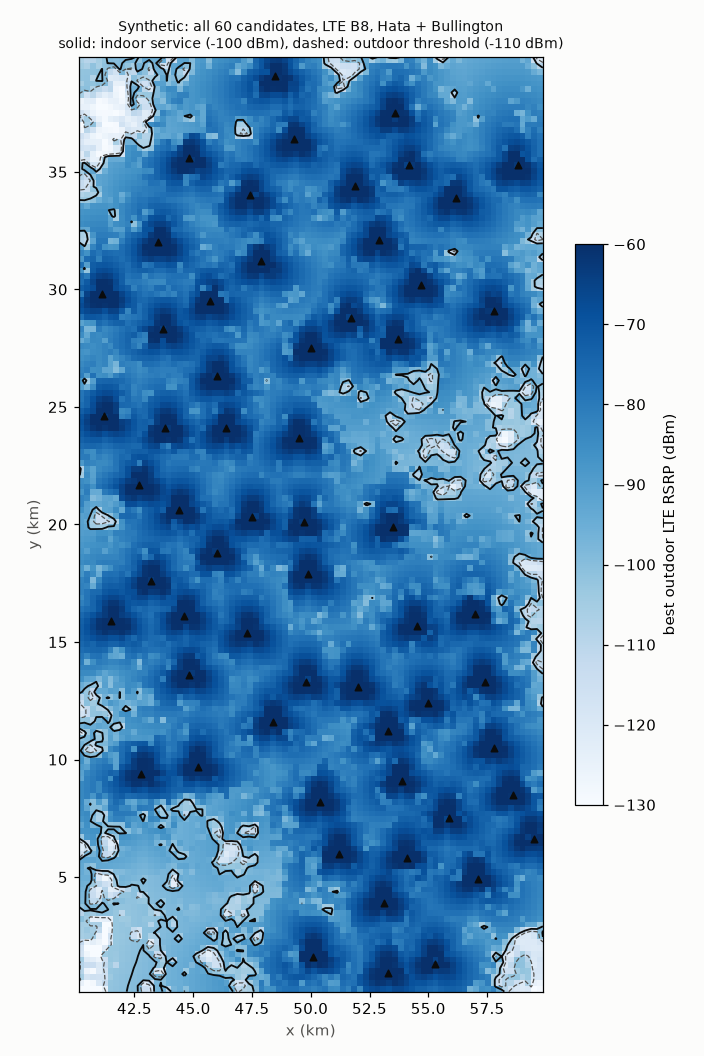
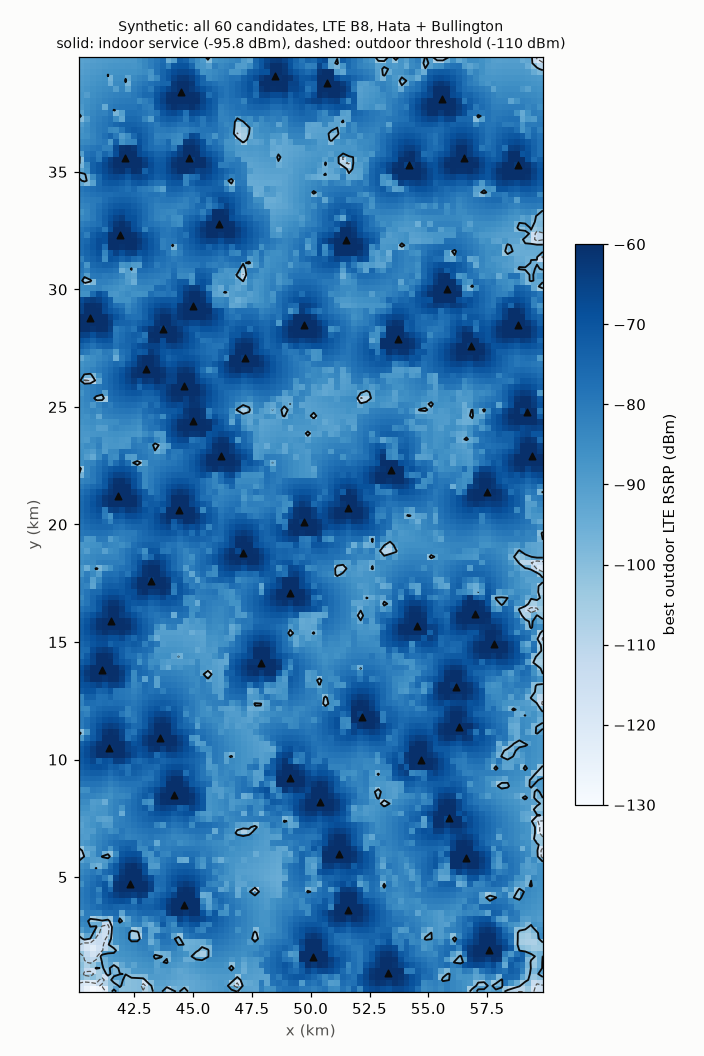
feat: use the p.2109 indoor margin and irregular hilltop candidates

diff --git a/src/ran_lakehouse/planning/geography.py b/src/ran_lakehouse/planning/geography.py
@@ -23,14 +23,15 @@ LINE_SEGMENT_KM = 1.0
 LINE_TURN_SD_DEG = 15.0
 GRID_LINE_KM = 14.0  # power grid reach into the expansion area (START)
 FIBER_ROUTE_KM = 9.0  # fiber reach (START)
-# Candidate sites (START): a node is a local high point when it is the
-# highest within HIGH_POINT_RADIUS_KM; a candidate needs a village within
-# NEAR_VILLAGE_KM, candidates keep MIN_SPACING_KM apart, and they are taken
-# greedily by the persons in villages within SCORE_RADIUS_KM.
+# Candidate sites (START): a hilltop is a node that is the highest within
+# HIGH_POINT_RADIUS_KM. Each village proposes its highest hilltop within
+# NEAR_VILLAGE_KM; proposals keep MIN_SPACING_KM apart (higher first), so
+# candidates cluster where villages do and leave gaps elsewhere. At most
+# CANDIDATES are kept, by the persons in villages within SCORE_RADIUS_KM.
 CANDIDATES = 60
 HIGH_POINT_RADIUS_KM = 0.5
 NEAR_VILLAGE_KM = 3.0
-MIN_SPACING_KM = 2.0
+MIN_SPACING_KM = 1.5
 SCORE_RADIUS_KM = 5.0
 # Build cost, IDR (ASSUMPTION): tower, civil works and radio equipment, plus
 # an access road per km from the nearest village.
@@ -169,7 +170,7 @@ def distance_to_line(x_km: np.ndarray, y_km: np.ndarray, line: np.ndarray) -> np
 
 
 def high_points(terrain: Terrain) -> tuple[np.ndarray, np.ndarray, np.ndarray]:
-    """Nodes that are the highest within HIGH_POINT_RADIUS_KM.
+    """Nodes that are the highest within HIGH_POINT_RADIUS_KM, away from the edges.
 
     Args:
         terrain: The terrain.
@@ -181,7 +182,12 @@ def high_points(terrain: Terrain) -> tuple[np.ndarray, np.ndarray, np.ndarray]:
     h = terrain.heights_m
     padded = np.pad(h, r, mode="edge")
     window_max = sliding_window_view(padded, (2 * r + 1, 2 * r + 1)).max(axis=(2, 3))
-    rows, cols = np.nonzero(h >= window_max)
+    top = h >= window_max
+    # A node within the radius of the area's edge is left out: the terrain
+    # is cut there, so a slope running out of the area would look like a top.
+    top[:r, :] = top[-r:, :] = False
+    top[:, :r] = top[:, -r:] = False
+    rows, cols = np.nonzero(top)
     return (
         terrain.x0_km + cols * terrain.step_km,
         terrain.y0_km + rows * terrain.step_km,
@@ -189,15 +195,31 @@ def high_points(terrain: Terrain) -> tuple[np.ndarray, np.ndarray, np.ndarray]:
     )
 
 
-def candidates(terrain: Terrain, village_list: list[Village]) -> list[Candidate]:
-    """Candidate sites on local high points near villages.
+def qualifying(terrain: Terrain, village_list: list[Village]) -> int:
+    """How many hilltops qualify before the CANDIDATES cap.
 
     Args:
         terrain: The terrain.
         village_list: The villages.
 
     Returns:
-        Up to CANDIDATES sites, the best-scored first.
+        The count.
+    """
+    return len(proposals(terrain, village_list)[0])
+
+
+def proposals(
+    terrain: Terrain, village_list: list[Village]
+) -> tuple[list[int], dict[str, np.ndarray]]:
+    """The villages' hilltops, kept MIN_SPACING_KM apart.
+
+    Args:
+        terrain: The terrain.
+        village_list: The villages.
+
+    Returns:
+        (indices of the qualifying hilltops, arrays x, y, h, nearest village
+        distance and persons score of every hilltop).
     """
     x, y, h = high_points(terrain)
     vx = np.array([v.x_km for v in village_list])
@@ -206,13 +228,31 @@ def candidates(terrain: Terrain, village_list: list[Village]) -> list[Candidate]
     d = np.hypot(x[:, None] - vx[None, :], y[:, None] - vy[None, :])
     nearest = d.min(axis=1)
     score = (vp[None, :] * (d <= SCORE_RADIUS_KM)).sum(axis=1)
-    order = [i for i in np.argsort(-score, kind="stable") if nearest[i] <= NEAR_VILLAGE_KM]
-    chosen: list[int] = []
-    for i in order:
-        if all(np.hypot(x[i] - x[j], y[i] - y[j]) >= MIN_SPACING_KM for j in chosen):
-            chosen.append(int(i))
-        if len(chosen) == CANDIDATES:
-            break
+    proposed = set()
+    for village in range(len(village_list)):
+        near = np.flatnonzero(d[:, village] <= NEAR_VILLAGE_KM)
+        if near.size:
+            proposed.add(int(near[np.argmax(h[near])]))
+    spaced: list[int] = []
+    for i in sorted(proposed, key=lambda k: (-h[k], k)):
+        if all(np.hypot(x[i] - x[j], y[i] - y[j]) >= MIN_SPACING_KM for j in spaced):
+            spaced.append(i)
+    return spaced, {"x": x, "y": y, "h": h, "nearest": nearest, "score": score}
+
+
+def candidates(terrain: Terrain, village_list: list[Village]) -> list[Candidate]:
+    """Candidate sites: the villages' nearby hilltops, irregular like real ones.
+
+    Args:
+        terrain: The terrain.
+        village_list: The villages.
+
+    Returns:
+        Up to CANDIDATES sites, the best-scored first.
+    """
+    spaced, a = proposals(terrain, village_list)
+    x, y, h, nearest, score = a["x"], a["y"], a["h"], a["nearest"], a["score"]
+    chosen = sorted(spaced, key=lambda k: (-score[k], k))[:CANDIDATES]
     return [
         Candidate(
             site_id=f"C{k + 1:02d}",

diff --git a/src/ran_lakehouse/planning/report.py b/src/ran_lakehouse/planning/report.py
@@ -83,7 +83,7 @@ def parameters() -> dict[str, Any]:
         "GSM 900 BCCH power dBm (rule M)": radio.GSM_POWER_DBM,
         "LTE RSRP threshold dBm (START)": radio.LTE_RSRP_THRESHOLD_DBM,
         "GSM RxLev threshold dBm (START)": radio.GSM_RXLEV_THRESHOLD_DBM,
-        "indoor margin dB (START, ASSUMPTION)": radio.INDOOR_MARGIN_DB,
+        "indoor margin dB (ITU-R P.2109-2, traditional buildings)": radio.INDOOR_MARGIN_DB,
         "microwave GHz (START)": radio.MICROWAVE_GHZ,
         "Fresnel clearance used (START)": radio.FRESNEL_CLEARANCE,
         "hub zone km, hub antenna m, max hop km (START)": [
@@ -104,6 +104,24 @@ def parameters() -> dict[str, Any]:
             "solar and battery": backhaul.SOLAR_IDR,
         },
     }
+
+
+def greedy_cover(served: np.ndarray) -> int:
+    """Candidates a greedy cover needs to serve every village some candidate serves.
+
+    Args:
+        served: Mask (candidates, villages).
+
+    Returns:
+        Candidates picked (an upper bound on the minimum cover).
+    """
+    left = served.any(axis=0)
+    picked = 0
+    while left.any():
+        best = int(np.argmax((served & left[None, :]).sum(axis=1)))
+        left &= ~served[best]
+        picked += 1
+    return picked
 
 
 def counts(plan: Plan, data: dict[str, Any]) -> dict[str, Any]:
@@ -147,6 +165,7 @@ def counts(plan: Plan, data: dict[str, Any]) -> dict[str, Any]:
             "persons without indoor GSM": int(population[~indoor_gsm].sum()),
         },
         "candidates": len(sites),
+        "candidates_qualifying": geography.qualifying(plan.terrain, plan.villages),
         "candidate_elevation_m": spread(np.array([s["elevation_m"] for s in sites])),
         "build_cost_idr": spread(np.array([s["build_cost_idr"] for s in sites])),
         "villages_served_by_some_candidate": {
@@ -154,6 +173,10 @@ def counts(plan: Plan, data: dict[str, Any]) -> dict[str, Any]:
             "GSM indoor": int(site_gsm.any(axis=0).sum()),
         },
         "villages_per_candidate_lte_indoor": spread(site_lte.sum(axis=1)),
+        "greedy_cover_candidates": {
+            "LTE indoor": greedy_cover(site_lte),
+            "GSM indoor": greedy_cover(site_gsm),
+        },
         "backhaul": {
             "fiber spur km": spread(np.array([o["distance_km"] for o in option("fiber")])),
             "microwave clear at 0.6 F1 (used)": len(microwave),
@@ -441,7 +464,8 @@ def build(warehouse: str) -> dict[str, Any]:
             "fresnel": radio.FRESNEL_SOURCE,
             "clearance": radio.CLEARANCE_SOURCE,
             "thresholds": radio.THRESHOLD_CONTEXT,
-            "indoor margin context, ITU-R P.2109-2 median at 0.9 GHz (dB)": radio.P2109_MEDIAN_DB,
+            "indoor margin": radio.INDOOR_MARGIN_SOURCE,
+            "ITU-R P.2109-2 median at 0.9 GHz (dB)": radio.P2109_MEDIAN_DB,
         },
         "parameters": parameters(),
         "counts": counts(plan, data),
@@ -500,8 +524,10 @@ def render_markdown(record: dict[str, Any]) -> str:
         "weak outdoor coverage from the served edge. The served cells' levels at each village",
         "use the model's Hata plus the same Bullington diffraction over the terrain as the",
         "candidates. Service coverage is indoor: the outdoor level must clear the threshold by",
-        f"the indoor margin ({record['parameters']['indoor margin dB (START, ASSUMPTION)']:g} dB,"
-        " START).",
+        "the indoor margin ("
+        f"{record['parameters']['indoor margin dB (ITU-R P.2109-2, traditional buildings)']:g}"
+        " dB, the ITU-R P.2109-2 median for traditional buildings; village housing is",
+        "modelled as that class, ASSUMPTION).",
         "",
         "| Villages | Count |",
         "|---|---|",
@@ -510,7 +536,14 @@ def render_markdown(record: dict[str, Any]) -> str:
         "",
         "## Candidates and coverage (rules G4, G5)",
         "",
-        f"{c['candidates']} candidates on local high points near villages; elevation "
+        f"{c['candidates_qualifying']} hilltops qualify and {c['candidates']} are kept (cap "
+        f"{record['parameters']['candidate sites (START)']}, by persons nearby): each village's"
+        " highest hilltop within "
+        f"{record['parameters']['candidate near a village within km (START)']:g} km, kept "
+        f"{record['parameters']['candidate spacing km (START)']:g} km apart, so they cluster",
+        "where villages do. A greedy cover serves every village some candidate serves with "
+        f"{c['greedy_cover_candidates']['LTE indoor']} candidates (LTE indoor) or "
+        f"{c['greedy_cover_candidates']['GSM indoor']} (GSM indoor); elevation "
         f"{c['candidate_elevation_m'][0]:g} to {c['candidate_elevation_m'][2]:g} m; build cost "
         f"{c['build_cost_idr'][0]:,.0f} to {c['build_cost_idr'][2]:,.0f} IDR (ASSUMPTION).",
         "",

diff --git a/src/ran_lakehouse/planning/radio.py b/src/ran_lakehouse/planning/radio.py
@@ -51,13 +51,17 @@ MICROWAVE_GHZ = 8.0
 FRESNEL_CLEARANCE = 0.6  # used for the options (START, CLEARANCE_SOURCE)
 FULL_CLEARANCE = 1.0  # P.530-19 clause 2.2.2.1 step 1, reported beside it
 # Service coverage is indoor: the outdoor level must clear the threshold by
-# this building entry margin (START, ASSUMPTION). For context, ITU-R
-# P.2109-2 (08/2023) Annex 1 clause 3, eqs (1) to (10) and Table 1, give a
-# median building entry loss at 0.9 GHz and horizontal incidence of about
-# 14.2 dB for traditional and 31.2 dB for thermally-efficient buildings
-# (P2109_MEDIAN_DB, computed from the Recommendation).
-INDOOR_MARGIN_DB = 10.0
+# the median building entry loss of ITU-R P.2109-2 (08/2023) Annex 1
+# clause 3 (eqs (1) to (10), Table 1) at 0.9 GHz and horizontal incidence,
+# P = 50%: about 14.2 dB for traditional and 31.2 dB for thermally-efficient
+# buildings (computed from the Recommendation; they match its Fig. 1).
+# Village housing is modelled as the traditional class (ASSUMPTION).
 P2109_MEDIAN_DB = {"traditional": 14.2, "thermally-efficient": 31.2}
+INDOOR_MARGIN_DB = P2109_MEDIAN_DB["traditional"]
+INDOOR_MARGIN_SOURCE = (
+    "ITU-R P.2109-2 (08/2023) Annex 1 clause 3, median building entry loss at 0.9 GHz, "
+    "horizontal incidence, traditional buildings (village housing, ASSUMPTION)"
+)
 THRESHOLD_CONTEXT = (
     "3GPP sets no planning threshold: TS 36.133 V19.5.0 clause 9.1.4 gives the RSRP reporting "
     "range (-156 to -44 dBm); TS 45.005 V19.0.0 clause 6.2 the GSM 900 reference sensitivity "

diff --git a/tests/test_planning.py b/tests/test_planning.py
@@ -50,7 +50,7 @@ def test_candidates_sit_on_high_points_near_villages(demo_world: World) -> None:
     terrain = build_terrain(demo_world.profile)
     villages = geography.villages(demo_world, terrain)
     sites = geography.candidates(terrain, villages)
-    assert len(villages) == 150 and len(sites) == geography.CANDIDATES
+    assert len(villages) == 150 and 0 < len(sites) <= geography.CANDIDATES
     hx, hy, _ = geography.high_points(terrain)
     high = set(zip(np.round(hx, 3), np.round(hy, 3), strict=True))
     for s in sites:

diff --git a/results/planning.md b/results/planning.md
@@ -12,49 +12,51 @@ The expansion area has little or no usable indoor service today; some villages s
 weak outdoor coverage from the served edge. The served cells' levels at each village
 use the model's Hata plus the same Bullington diffraction over the terrain as the
 candidates. Service coverage is indoor: the outdoor level must clear the threshold by
-the indoor margin (10 dB, START).
+the indoor margin (14.2 dB, the ITU-R P.2109-2 median for traditional buildings; village housing is
+modelled as that class, ASSUMPTION).
 
 | Villages | Count |
 |---|---|
 | all | 150 (176,284 persons, 143 schools) |
 | outdoor LTE (RSRP at threshold) | 23 |
 | outdoor GSM (RxLev at threshold) | 60 |
-| indoor LTE (covered_today_lte) | 8 |
-| indoor GSM (covered_today_gsm) | 42 |
-| persons without indoor LTE | 169,505 |
-| persons without indoor GSM | 125,740 |
+| indoor LTE (covered_today_lte) | 1 |
+| indoor GSM (covered_today_gsm) | 31 |
+| persons without indoor LTE | 175,424 |
+| persons without indoor GSM | 145,462 |
 
 ## Candidates and coverage (rules G4, G5)
 
-60 candidates on local high points near villages; elevation 335.4 to 576.9 m; build cost 1,809,046,186 to 2,112,228,296 IDR (ASSUMPTION).
+61 hilltops qualify and 60 are kept (cap 60, by persons nearby): each village's highest hilltop within 3 km, kept 1.5 km apart, so they cluster
+where villages do. A greedy cover serves every village some candidate serves with 31 candidates (LTE indoor) or 16 (GSM indoor); elevation 314.4 to 577.7 m; build cost 1,809,046,186 to 2,112,228,296 IDR (ASSUMPTION).
 
 ![Coverage](planning_coverage.png)
 
 | Coverage from candidates | Value |
 |---|---|
-| villages with indoor LTE from some candidate | 143 |
-| villages with indoor GSM from some candidate | 146 |
-| villages per candidate, indoor LTE (min / median / max) | 3 / 9 / 17 |
-| area share with indoor LTE from all candidates | 90.9% |
-| area share with outdoor LTE from all candidates | 96.3% |
+| villages with indoor LTE from some candidate | 146 |
+| villages with indoor GSM from some candidate | 150 |
+| villages per candidate, indoor LTE (min / median / max) | 2 / 7 / 13 |
+| area share with indoor LTE from all candidates | 96.6% |
+| area share with outdoor LTE from all candidates | 99.5% |
 
 ## Backhaul and power (rule G6)
 
 ![Line of sight](planning_los.png)
 
-The figure: the longest clear hop, C26 to SITE0277, 22.2 km.
+The figure: the longest clear hop, C21 to SITE0280, 21.4 km.
 The gold table uses the 0.6 F1 clearance; the 1.0 F1 count is beside it.
 
 | Option (spreads are min / median / max) | Value |
 |---|---|
-| fiber spur km | 0.08 / 9.97 / 22.59 |
-| microwave clear at 0.6 F1 (used) | 52 |
-| microwave clear at 1.0 F1 (P.530-19 2.2.2.1) | 50 |
-| microwave hop km | 2.95 / 12.15 / 22.2 |
+| fiber spur km | 0.08 / 10.72 / 23.62 |
+| microwave clear at 0.6 F1 (used) | 56 |
+| microwave clear at 1.0 F1 (P.530-19 2.2.2.1) | 55 |
+| microwave hop km | 2.51 / 12.25 / 21.45 |
 | satellite | 60 |
 | hubs | 11 |
-| power: grid | 16 |
-| power: solar | 44 |
+| power: grid | 14 |
+| power: solar | 46 |
 
 ## Sources
 
@@ -62,7 +64,8 @@ The gold table uses the 0.6 F1 clearance; the 1.0 F1 count is beside it.
 - fresnel: ITU-R P.530-19 (09/2025) clause 2.2.1 eq (3)
 - clearance: ITU-R P.526-16 clause 2.3 and P.530-19 clause 2.2.2: 60% of the first Fresnel zone gives free-space conditions; P.530-19 clause 2.2.2.1 plans for 1.0 F1 at median k
 - thresholds: 3GPP sets no planning threshold: TS 36.133 V19.5.0 clause 9.1.4 gives the RSRP reporting range (-156 to -44 dBm); TS 45.005 V19.0.0 clause 6.2 the GSM 900 reference sensitivity (-104 dBm BTS, -102 dBm small MS)
-- indoor margin context, ITU-R P.2109-2 median at 0.9 GHz (dB): traditional 14.2; thermally-efficient 31.2
+- indoor margin: ITU-R P.2109-2 (08/2023) Annex 1 clause 3, median building entry loss at 0.9 GHz, horizontal incidence, traditional buildings (village housing, ASSUMPTION)
+- ITU-R P.2109-2 median at 0.9 GHz (dB): traditional 14.2; thermally-efficient 31.2
 
 ## Parameters
 
@@ -74,14 +77,14 @@ The gold table uses the 0.6 F1 clearance; the 1.0 F1 count is beside it.
 | persons per school (START) | 1,500 |
 | school from persons (START) | 500 |
 | candidate sites (START) | 60 |
-| candidate spacing km (START) | 2 |
+| candidate spacing km (START) | 1.5 |
 | candidate near a village within km (START) | 3 |
 | mast height m (START) | 30 |
 | LTE B8 power dBm, N_RB (rule M) | 46 / 50 |
 | GSM 900 BCCH power dBm (rule M) | 43 |
 | LTE RSRP threshold dBm (START) | -110 |
 | GSM RxLev threshold dBm (START) | -100 |
-| indoor margin dB (START, ASSUMPTION) | 10 |
+| indoor margin dB (ITU-R P.2109-2, traditional buildings) | 14.2 |
 | microwave GHz (START) | 8 |
 | Fresnel clearance used (START) | 0.6 |
 | hub zone km, hub antenna m, max hop km (START) | 4 / 40 / 30 |
@@ -102,6 +105,6 @@ The gold table uses the 0.6 F1 clearance; the 1.0 F1 count is beside it.
 
 | Step | Value |
 |---|---|
-| seconds, network model and plan | 28.4 |
-| seconds, total | 40.0 |
-| peak RSS (MB) | 745 |
+| seconds, network model and plan | 28.1 |
+| seconds, total | 39.4 |
+| peak RSS (MB) | 744 |

diff --git a/docs/spec.md b/docs/spec.md
@@ -265,10 +265,13 @@ the property breaks:
 - G3 Villages: id, x_km, y_km, population, schools, the served network's
   outdoor level per technology, covered_today_lte and covered_today_gsm.
   Service coverage is indoor: the outdoor level clears the threshold plus
-  an indoor margin (START 10 dB at 900 MHz, ASSUMPTION; ITU-R P.2109-2
-  (08/2023) for context).
+  the median building entry loss of ITU-R P.2109-2 (08/2023) Annex 1
+  clause 3 at 0.9 GHz for traditional buildings (about 14.2 dB); village
+  housing is modelled as the traditional class (ASSUMPTION).
 - G4 Candidate sites: id, x_km, y_km, elevation, build cost, grid
-  distance, fiber distance. Costs in IDR, ASSUMPTION, stated.
+  distance, fiber distance. Costs in IDR, ASSUMPTION, stated. Candidates
+  are each village's highest local hilltop within START 3 km, kept START
+  1.5 km apart, up to START 60 by persons nearby.
 - G5 Coverage: Hata (rule M) for the 900 MHz rural layers (LTE B8, GSM
   900; START 30 m masts) plus Bullington diffraction on the terrain
   profile, ITU-R P.526-16 (11/2025) Annex 1 clause 4.5.1 eqs (49) to (57)
